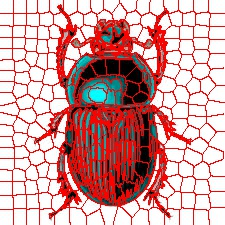
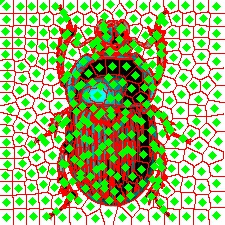
Afficher les centres de chaque cluster

diff --git a/ProjetExtractionGraphes/ProjetExtractionGraphes/ProjetExtractionGraphes.cpp b/ProjetExtractionGraphes/ProjetExtractionGraphes/ProjetExtractionGraphes.cpp
@@ -1,8 +1,8 @@
 /*
 * Main.cpp.
 *
-* This file creates an over-segmentation of a provided image based on the SLIC
-* superpixel algorithm, as implemented in slic.h and slic.cpp.
+* This file creates an over-segmentation of an image based on the SLIC
+* algorithm, and connect all edges to have a graph as a result.
 */
 
 #include "stdafx.h"
@@ -15,30 +15,34 @@
 using namespace std;
 
 #include "slic.h"
+#include "rag.h"
 
 int main(int argc, char *argv[]) {
 	/* Load the image and convert to Lab colour space. */
-	IplImage *image = cvLoadImage("../data/exemple1.jpg", 1);
+	IplImage *image = cvLoadImage("../data/exemple.jpg", 1);
 
 	IplImage *lab_image = cvCloneImage(image);
 	cvCvtColor(image, lab_image, CV_BGR2Lab);
 
 	/* Yield the number of superpixels and weight-factors from the user. */
-	int w = image->width, h = image->height;
+	int width = image->width, h = image->height;
 	int nr_superpixels = 400;
 	int nc = 40;
 
-	double step = sqrt((w * h) / (double)nr_superpixels);
+	double step = sqrt((width * h) / (double)nr_superpixels);
 
-	/* Perform the SLIC superpixel algorithm. */
+	
+	Rag rag;
 	Slic slic;
-	slic.generate_superpixels(lab_image, step, nc);
-	slic.create_connectivity(lab_image);
+	slic.generate_superpixels(image, step, nc);
+	slic.create_connectivity(image);
 
 	/* Display the contours and show the result. */
 	slic.display_contours(image, CV_RGB(255, 0, 0));
+	/* Display the centers and show the result. */
+	rag.display_center_grid(image, CV_RGB(0, 255, 0));
 	cvShowImage("result", image);
 	cvWaitKey(0);
-	cvSaveImage("../data/result1.jpg", image);
+	cvSaveImage("../data/result.jpg", image);
 	return 0;
 }

diff --git a/ProjetExtractionGraphes/ProjetExtractionGraphes/Rag.h b/ProjetExtractionGraphes/ProjetExtractionGraphes/Rag.h
@@ -1,0 +1,35 @@
+#pragma once
+/* slic.h.
+*
+* Written by: Youssef Moutaki, Cedric Cognard
+*
+* This file contains the class elements of the class Rag. This class is an
+* implementation of the Region adjacency graph algorithm.
+*
+*/
+
+#include <opencv/cv.h>
+#include <opencv/highgui.h>
+#include <stdio.h>
+#include <math.h>
+#include <vector>
+#include <float.h>
+using namespace std;
+/* 2d matrices are handled by 2d vectors. */
+#define vec2dd vector<vector<double> >
+#define vec2di vector<vector<int> >
+#define vec2db vector<vector<bool> >
+
+class Rag
+{
+private:
+	/* The LAB and xy values of the centers. */
+	vec2dd centers;
+public:
+	/* Class constructors and deconstructors. */
+	Rag();
+	~Rag();
+	/* Draw functions. Resp. displayal of the centers. */
+	void display_center_grid(IplImage *image, CvScalar colour);
+};
+

diff --git a/ProjetExtractionGraphes/ProjetExtractionGraphes/Slic.cpp b/ProjetExtractionGraphes/ProjetExtractionGraphes/Slic.cpp
@@ -283,19 +283,6 @@ void Slic::initialize_data(IplImage *image) {
 
 
 /*
-* Display the cluster centers
-*
-* Input : The image to display upon (IplImage*) and the colour (CvScalar)
-* Output :
-*/
-void Slic::display_center_grid(IplImage *image, CvScalar colour) {
-	for (int i = 0; i < (int)centers.size(); i++) {
-		cvCircle(image, cvPoint(centers[i][3], centers[i][4]), 2, colour, 3);
-	}
-}
-
-
-/*
 * Display a single pixel wide contour around the clusters.
 *
 * Input : The target image (IplImage*) and contour colour (CvScalar).

diff --git a/ProjetExtractionGraphes/ProjetExtractionGraphes/Rag.cpp b/ProjetExtractionGraphes/ProjetExtractionGraphes/Rag.cpp
@@ -1,0 +1,28 @@
+#include "stdafx.h"
+#include "Rag.h"
+
+/*
+* Constructor. Nothing is done here.
+*/
+Rag::Rag()
+{
+}
+
+/*
+* Destructor. Clear any present data.
+*/
+Rag::~Rag()
+{
+}
+
+/*
+* Display the cluster centers
+*
+* Input : The image to display upon and the colour
+* Output :
+*/
+void Rag::display_center_grid(IplImage *image, CvScalar colour) {
+	for (int i = 0; i < (int)centers.size(); i++) {
+		cvCircle(image, cvPoint(centers[i][3], centers[i][4]), 2, colour, 1);
+	}
+}
